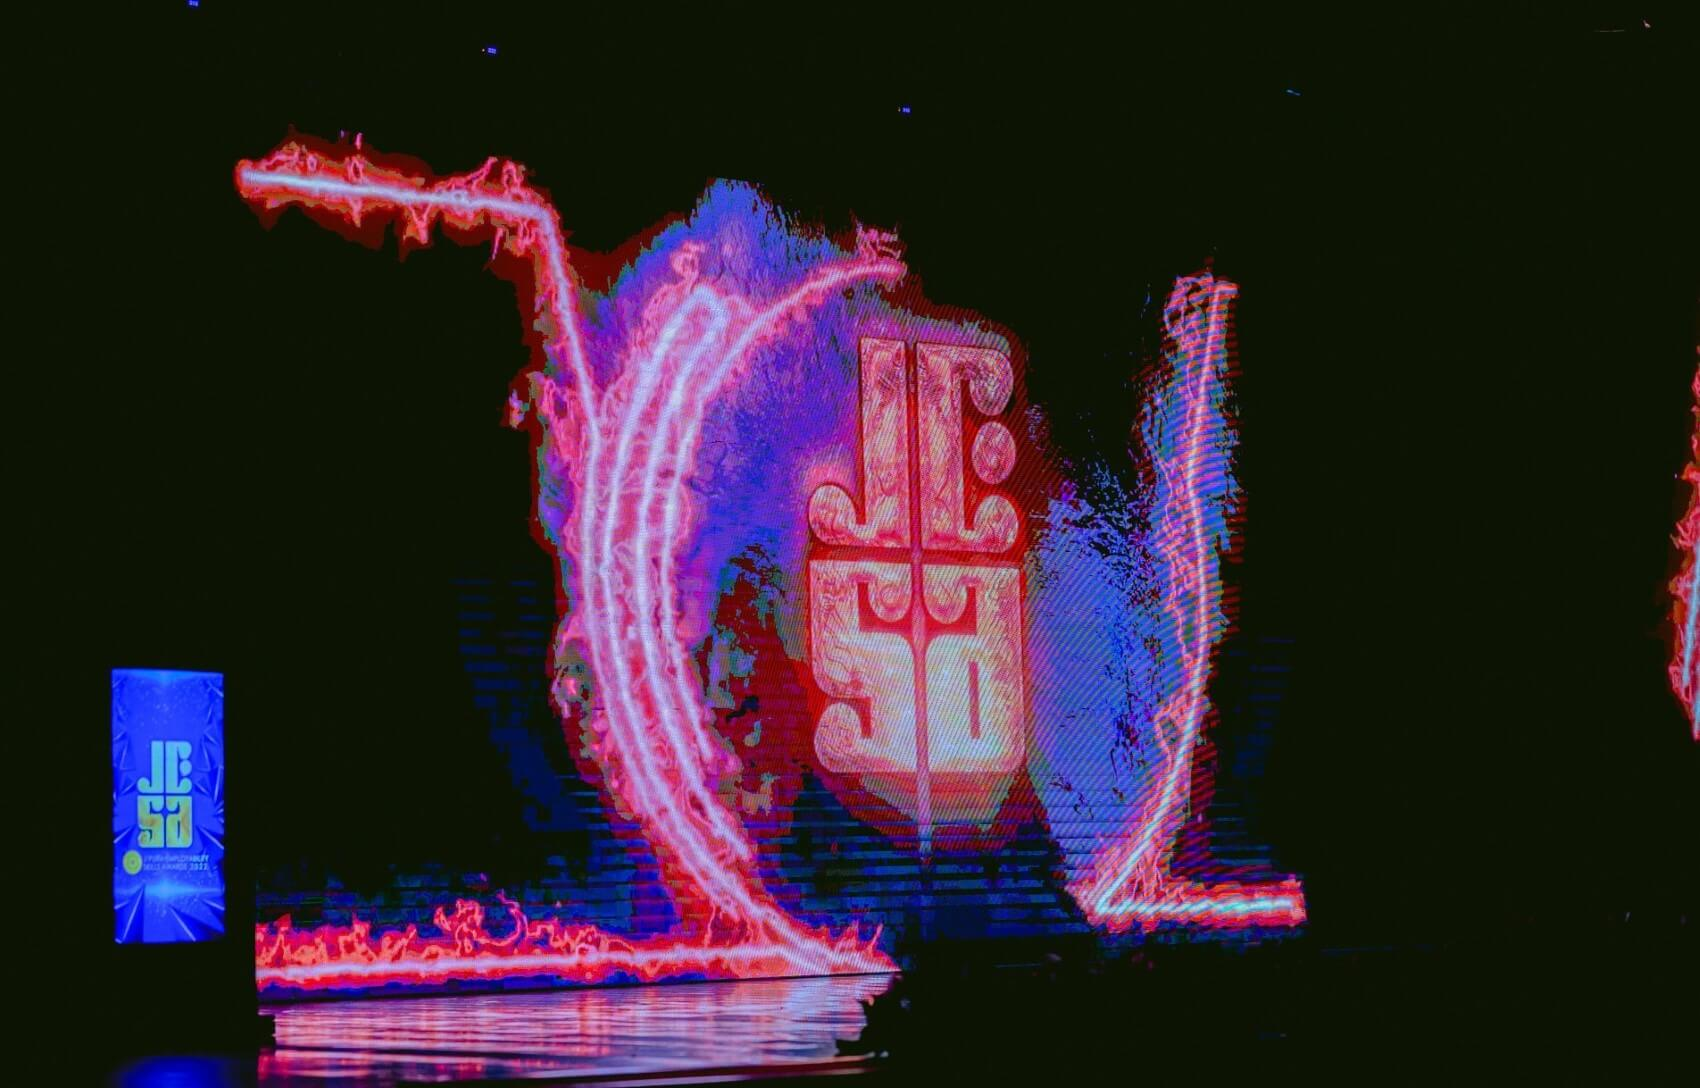
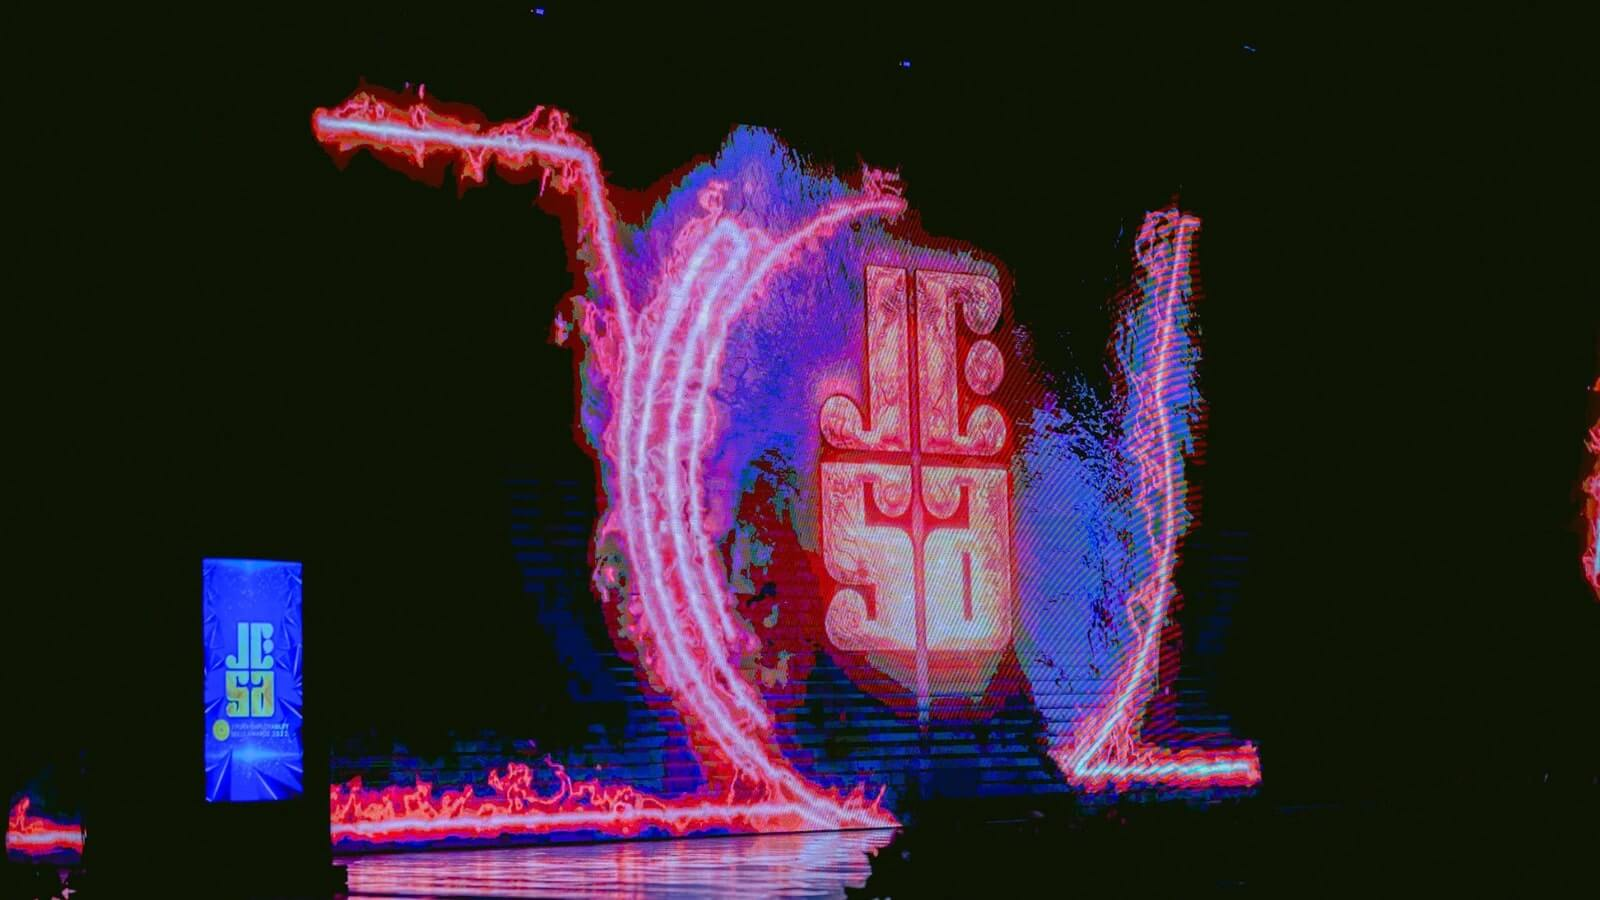
Further optimized for smaller screens

diff --git a/src/components/Carousel.tsx b/src/components/Carousel.tsx
@@ -73,18 +73,25 @@ const Carousel = () => {
     //checking if the carousel has any items and renders it
     imagItems.length !== 0 && (
       <div className="carousel-image-holder">
-        <img
-          src={currentItem["link"]}
-          alt={currentItem["description"]}
-          // handling the transition for next and previous buttons
-          className={
-            isTransitioning
-              ? clickedDirection == "right"
-                ? "carousel-image transitioning-right"
-                : "carousel-image transitioning-left"
-              : "carousel-image"
-          }
-        />
+        <picture>
+          {/* displaying narrow images for smaller screens */}
+          <source
+            media="(max-width: 810px)"
+            srcSet={currentItem["narrow-link"]}
+          />
+          <img
+            src={currentItem["link"]}
+            alt={currentItem["description"]}
+            // handling the transition for next and previous buttons
+            className={
+              isTransitioning
+                ? clickedDirection == "right"
+                  ? "carousel-image transitioning-right"
+                  : "carousel-image transitioning-left"
+                : "carousel-image"
+            }
+          />
+        </picture>
         {/* Displaying the buttons */}
         <button
           onClick={handleNext}

diff --git a/README.md b/README.md
@@ -43,13 +43,14 @@ A little documentation for future developers as a headstart to keep the project 
 - There's no backend configured for the app. All the data used within the app are stored in the `public\data` directory as JSON files.
 
 **When editing the JSON files, keep in mind the following points if you are just editing the data without changing the codes in the components.**
+
 - Keep the BESA award at `"id":"7"` and each faculty BESA award after `"id":"7"` in the `award.json` file to avoid displaying awards incorrectly.
 - Keep the Best Inventor award at `"id":"4"` in the `award.json` file.
 - New awards can be added at the end of the `award.json` file. The order of displaying the awards can be changed by moving up or down the entries. _(Refer above two points before making any changes)_
 - When adding a new BESA award, just copy the last BESA award and add it to the end with the new `id`. And change the `"description"` to the faculty name. Then update the image links for each partner.
 - If there's any new partners in the Other Partners section, just add them according to the order you want in the `"other-partners.json"` file.
 - To add a new Hall of Fame entry, append it to the top of the `hall-of-fame.json` and increment the `id` of the below entries. _(Keeping the `"image"` field empty will skip the entry from displaying. But it will show in the faculty tags area)_
-- The order of entries in the `carousel.json` is the order of displaying the images and can be edited as needed.
+- The order of entries in the `carousel.json` is the order of displaying the images and can be edited as needed. (Images for wider screen sizes are 1600x900 and for smaller screen sizes are 800x900. Rename the files according to the files in the directory)
 
 **Something missing?**
 Send me a message and I'll get back to you :)
